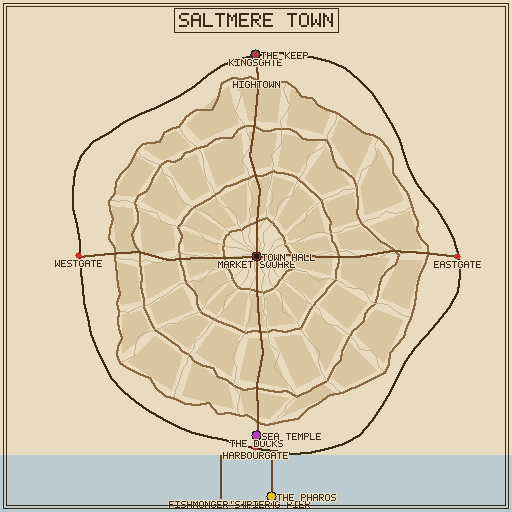
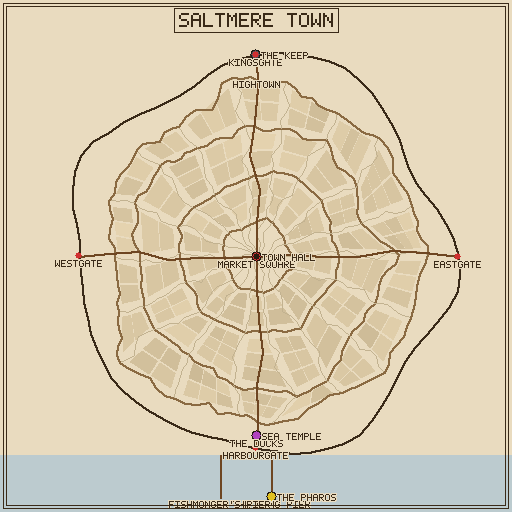
feat(map): urban lot subdivision — towns read at the building scale
Each U1 block is now subdivided into building lots instead of one colored quad.

- urban.rs subdivide_block: bilinear-grid split of a block quad (1-3 lots per axis
  from edge length, noise-jittered split lines), each lot inset for a thin lane, with
  per-lot tone wobble. Parameterized inset_quad_by (blocks 0.22, lots 0.12). Works
  across radial/grid/organic layouts. Deterministic.
- The render fills lots, not blocks, so a town reads as individual buildings/parcels.

Lot subdivision unit test (more lots than blocks + deterministic). Regenerated the
town proofs. 1395 lib tests, urban clippy-clean. Geographic corpus unaffected.

diff --git a/src/map/urban.rs b/src/map/urban.rs
@@ -371,9 +371,15 @@ impl StreetGraph {
                 }
             }
         }
-        // Block parcels (built-up infill).
-        for b in self.blocks() {
-            fill_quad(&mut img, &b.corners, [0xd8, 0xc6, 0xa2]);
+        // Built-up infill: each block subdivided into building lots — small parcels
+        // with thin gaps + slight tone variation, so the town reads at the lot scale.
+        for (bi, b) in self.blocks().iter().enumerate() {
+            for (li, lot) in subdivide_block(&b.corners, &curve, bi).into_iter().enumerate() {
+                // Per-lot tone wobble: a few buildings darker/lighter than the block.
+                let dv = (curve(bi as f32 * 0.7 + li as f32 * 1.9 + 30.0, li as f32 * 0.6) * 13.0) as i32;
+                let v = |c: i32| (c + dv).clamp(0, 255) as u8;
+                fill_quad(&mut img, &lot, [v(0xd8), v(0xc6), v(0xa2)]);
+            }
         }
         // Streets — each segment bent by the noise field so nothing runs straight.
         for e in self.g.edge_indices() {
@@ -580,12 +586,60 @@ fn draw_line(img: &mut RgbImage, x0: f32, y0: f32, x1: f32, y1: f32, c: [u8; 3],
     }
 }
 
-/// Shrink a quad toward its centroid (so streets show between block parcels).
-fn inset_quad(quad: [(f32, f32); 4]) -> Block {
+/// Subdivide a block quad into **building lots** — a small bilinear grid (split
+/// count from the block's edge lengths, noise-jittered split lines), each lot inset
+/// for a thin gap. `seed_i` varies the jitter per block. Deterministic.
+fn subdivide_block(q: &[(f32, f32); 4], noise: &dyn Fn(f32, f32) -> f32, seed_i: usize) -> Vec<[(f32, f32); 4]> {
+    let [a, b, c, d] = *q;
+    // Edge lengths: a→b (u axis) vs a→d (v axis) → more lots along the longer one.
+    let len = |p: (f32, f32), r: (f32, f32)| ((p.0 - r.0).powi(2) + (p.1 - r.1).powi(2)).sqrt();
+    let split = |l: f32| (l / 16.0).round().clamp(1.0, 3.0) as usize;
+    let (nu, nv) = (split(len(a, b)), split(len(a, d)));
+    // Bilinear sample of the quad at (u, v) ∈ [0,1]².
+    let p = |u: f32, v: f32| -> (f32, f32) {
+        let x = a.0 * (1.0 - u) * (1.0 - v) + b.0 * u * (1.0 - v) + c.0 * u * v + d.0 * (1.0 - u) * v;
+        let y = a.1 * (1.0 - u) * (1.0 - v) + b.1 * u * (1.0 - v) + c.1 * u * v + d.1 * (1.0 - u) * v;
+        (x, y)
+    };
+    // Jittered split lines (a touch uneven, like real lots) — sorted, in [0,1].
+    let lines = |n: usize, salt: f32| -> Vec<f32> {
+        let mut v: Vec<f32> = (0..=n)
+            .map(|k| {
+                let t = k as f32 / n as f32;
+                if k == 0 || k == n {
+                    t
+                } else {
+                    (t + noise(seed_i as f32 * 0.5 + k as f32 + salt, salt) * 0.12 / n as f32).clamp(0.05, 0.95)
+                }
+            })
+            .collect();
+        v.sort_by(|a, b| a.partial_cmp(b).unwrap());
+        v
+    };
+    let us = lines(nu, 1.0);
+    let vs = lines(nv, 7.0);
+    let mut lots = Vec::with_capacity(nu * nv);
+    for iv in 0..nv {
+        for iu in 0..nu {
+            let (u0, u1, v0, v1) = (us[iu], us[iu + 1], vs[iv], vs[iv + 1]);
+            let raw = [p(u0, v0), p(u1, v0), p(u1, v1), p(u0, v1)];
+            lots.push(inset_quad_by(raw, 0.12)); // a thin lane between lots
+        }
+    }
+    lots
+}
+
+/// Shrink a quad toward its centroid by `f` (so streets/lanes show between parcels).
+fn inset_quad_by(quad: [(f32, f32); 4], f: f32) -> [(f32, f32); 4] {
     let cx = quad.iter().map(|p| p.0).sum::<f32>() / 4.0;
     let cy = quad.iter().map(|p| p.1).sum::<f32>() / 4.0;
-    let f = |p: (f32, f32)| (p.0 + (cx - p.0) * 0.22, p.1 + (cy - p.1) * 0.22);
-    Block { corners: [f(quad[0]), f(quad[1]), f(quad[2]), f(quad[3])] }
+    let g = |p: (f32, f32)| (p.0 + (cx - p.0) * f, p.1 + (cy - p.1) * f);
+    [g(quad[0]), g(quad[1]), g(quad[2]), g(quad[3])]
+}
+
+/// Shrink a block quad toward its centroid (so streets show between blocks).
+fn inset_quad(quad: [(f32, f32); 4]) -> Block {
+    Block { corners: inset_quad_by(quad, 0.22) }
 }
 
 /// Scanline-fill a convex quad (the 4 corners in order).
@@ -723,6 +777,21 @@ mod tests {
             .collect();
         let (min, max) = (rs.iter().cloned().fold(f32::INFINITY, f32::min), rs.iter().cloned().fold(0.0, f32::max));
         assert!(max - min > sg.radius * 0.08, "wall radius varies (organic), got spread {}", max - min);
+    }
+
+    #[test]
+    fn blocks_subdivide_into_lots_deterministically() {
+        let sg = graph();
+        let perlin = Perlin::new(sg.seed);
+        let noise = |a: f32, b: f32| perlin.get([a as f64, b as f64]) as f32;
+        let count = |bi: usize| subdivide_block(&sg.blocks()[bi].corners, &noise, bi).len();
+        // Every block yields ≥1 lot; the bigger ones split into several.
+        let total: usize = (0..sg.blocks().len()).map(count).sum();
+        assert!(total > sg.blocks().len(), "blocks subdivide into more lots ({total} > {})", sg.blocks().len());
+        // Deterministic: same block → same lots.
+        let a = subdivide_block(&sg.blocks()[0].corners, &noise, 0);
+        let b = subdivide_block(&sg.blocks()[0].corners, &noise, 0);
+        assert_eq!(a, b);
     }
 
     #[test]

diff --git a/Documentation/ROADMAP_1.9.0.md b/Documentation/ROADMAP_1.9.0.md
@@ -34,9 +34,12 @@ Status: `[ ]` open · `[x]` done · `[~]` in progress.
       Canny) → temp PNG → image handle, bridged to async via `block_in_place` like the
       cascade words. Honours `plakat.map.layout`/`.erosion` (shared `load_spec_with_overrides`).
       Verified on Metal (island painted, 722/722 LoRA → handle → `plakat.save`).
-- [ ] **Urban lot subdivision** — split each U1 block quad into 2–4 building lots
-      (strip split along the longer edge, noise-jittered), drawn as finer parcels so
-      town maps read at the building scale. Deterministic; pure geometry on the quads.
+- [x] **Urban lot subdivision — DONE.** `subdivide_block` splits each block quad into
+      a small bilinear grid of **building lots** (split count from edge length 1–3 per
+      axis, noise-jittered split lines), each lot inset for a thin lane, with per-lot
+      tone wobble — so towns read at the building scale, not big colored blocks. Works
+      across radial/grid/organic. Deterministic; lot subdivision unit test; town proofs
+      regenerated.
 - [ ] **Non-Latin label shaping** — the 1.5 bitmap font is Latin-only; `language` =
       `ar`/`ru`/`zh` wants a real shaped font + `ab_glyph` (the one map feature that
       adds an asset/dep — gate it behind a `shaped-labels` feature flag; bitmap stays
